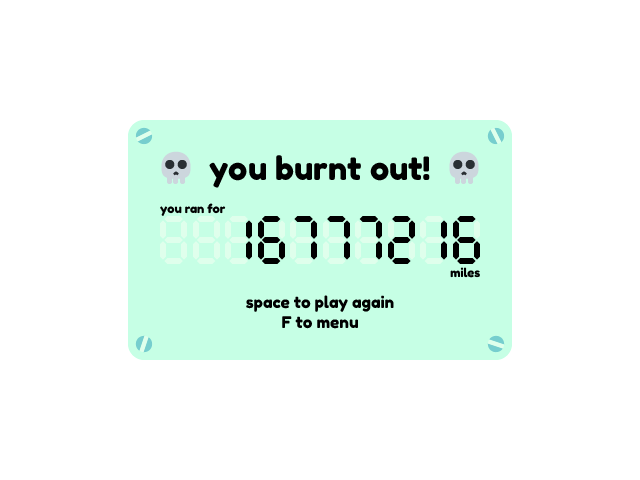
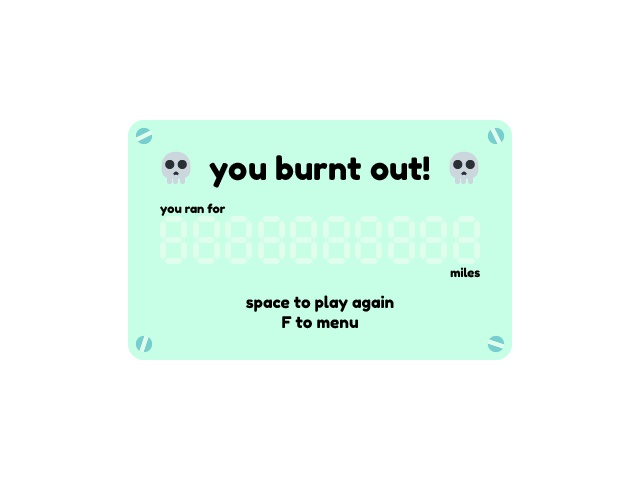
added the meters w/ numbers, game over

Changed region(s): [[0.375, 0.4375, 0.6562, 0.5625], [0.6875, 0.4375, 0.75, 0.5625]]

diff --git a/src/scenes/Play.js b/src/scenes/Play.js
@@ -18,6 +18,8 @@ class Play extends Phaser.Scene {
 
     preload() {
         this.load.image("groundbox", "./assets/groundbox.png");
+        this.load.image("gameover ui", "./assets/gameover_ui_image.png");
+        this.load.image("meter", "./assets/meter.png");
         this.load.audio("jumpSFX", "./assets/Jump2.wav");
         this.load.audio("atkSFX", "./assets/Fireball.wav");
         this.load.audio("hurtSFX", "./assets/Hit-matrixxx.wav");
@@ -118,6 +120,55 @@ class Play extends Phaser.Scene {
         this.engine.setGravityY(225);
         
         this.engine.anims.play("run");
+        
+        // draw the game over UI with alpha at zero
+        this.gameoverUI = this.add.sprite(
+            0,
+            0,
+            "gameover ui"
+            ).setOrigin(0, 0);
+        this.gameoverUI.alpha = 0;
+        this.gameoverUITween = false;
+        
+        // draw fuel gauge sprite
+        // in the future this will have two sprites + numbers
+        this.fuelGauge = this.add.sprite(
+            borderUISize /2,
+            borderUISize/2,
+            "meter"
+            ).setOrigin(0, 0);
+        
+        // draw speedometer sprite
+        // same thing as above
+        this.speedometer = this.add.sprite(
+            config.width - borderUISize/2,
+             borderUISize/2,
+            "meter"
+            ).setOrigin(1, 0);
+        this.speedometer.flipX = true;
+
+        // text for the meters... this will probaby be replaced later
+        let numbersConfig = {
+            fontFamily: "Verdana",
+            fontSize: "24px",
+            color: "#000",
+            backgroundColor: "#fff",
+            align: "center",
+            padding: 5,
+        }
+        this.fuelGaugeText = this.add.text(
+            this.fuelGauge.x + borderUISize/2,
+            this.fuelGauge.y + borderUISize/2,
+            Math.round(this.gas),
+            numbersConfig
+        );
+        numbersConfig.align = "left";
+        this.speedometerText = this.add.text(
+            this.speedometer.x - borderUISize*1.5,
+            this.speedometer.y + borderUISize/2,
+            Math.round(this.runSpeed*10),
+            numbersConfig
+        );
     }
 
     update(time, delta) {
@@ -208,17 +259,35 @@ class Play extends Phaser.Scene {
                 }
             }
             else { //game over screen
+                if (this.gameoverUITween == false && this.runSpeed == 0) {
+                    this.gameoverUITween = true;
+                    this.tweens.add({
+                        targets: [this.gameoverUI],
+                        alpha: {from: 0, to: 1},
+                        duration: 1000
+                    });
+                }
                 if(this.runSpeed != 0) {
                     console.log("decelerating");
                     this.runSpeed -= loSpeed * 0.005;
                     if(this.runSpeed < 0) {
                         this.runSpeed = 0;
                     }
+                } else {
+                    if (Phaser.Input.Keyboard.JustDown(keySPACE)) {
+                        this.scene.start("playScene");
+                    } else if (Phaser.Input.Keyboard.JustDown(keyF)) {
+                        this.scene.start("menuScene");
+                    }
                 }
             }
             //tick deltaTicker down once and frameTick up once
             this.deltaTicker -= 16.666666;
             this.frameTick++;
+
+            // updating the text on the fuel gauge and speedometer
+            this.fuelGaugeText.text = Math.round(this.gas);
+            this.speedometerText.text = Math.round(this.runSpeed*10);
         }
     }
 }
